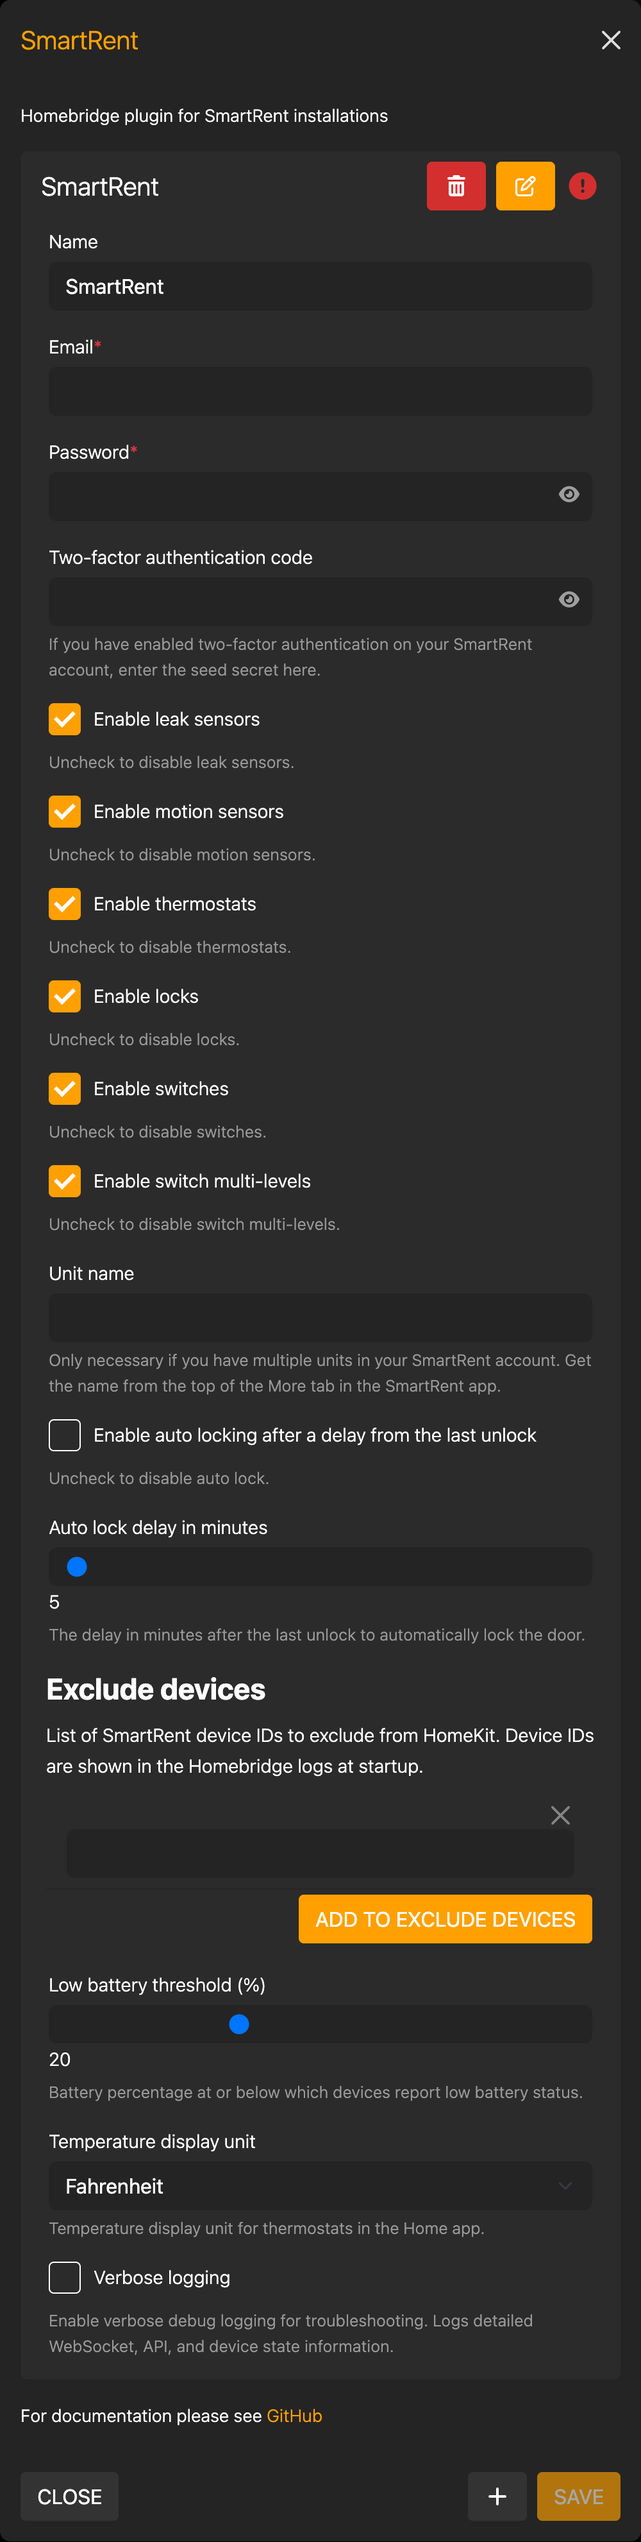
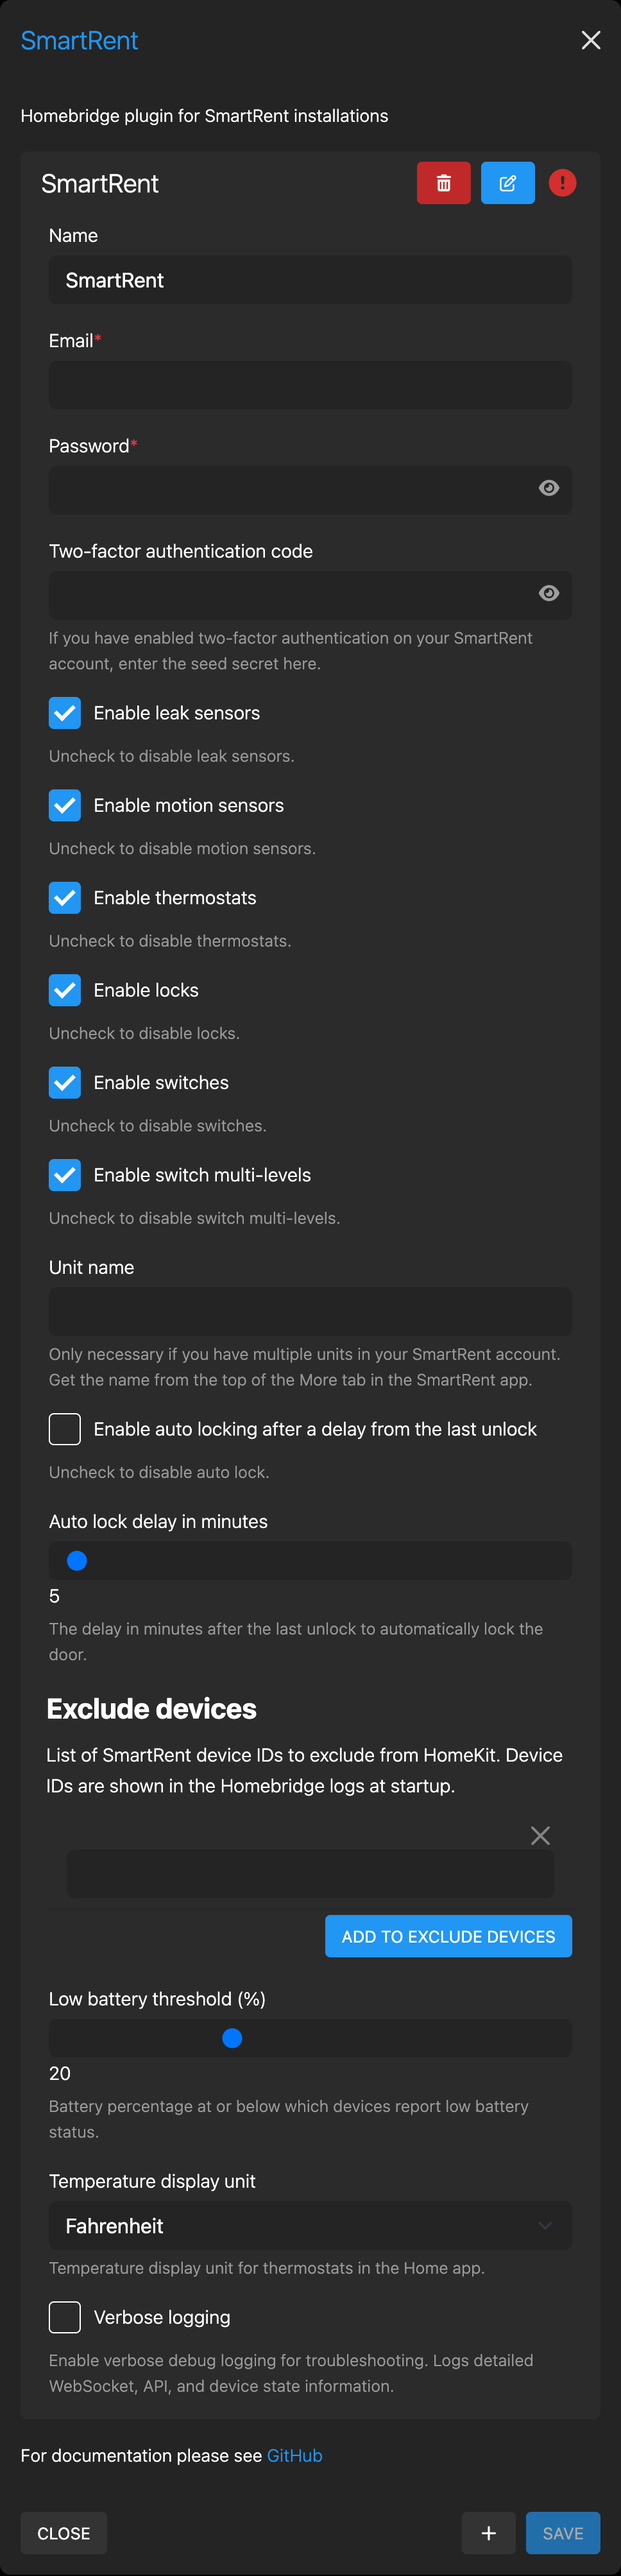
docs(readme): blue settings and dashboard screenshots
Both screenshots now use the blue Homebridge theme like the status loop, which is rebuilt without the extra blur on the interface name.

diff --git a/README.md b/README.md
@@ -26,7 +26,7 @@ The most comprehensive [SmartRent](https://smartrent.com) Homebridge integration
 
 <br><br>
 <p align="center">
-  <img src="https://raw.githubusercontent.com/BitWise-0x/homebridge-smartrent/main/homebridge-ui/public/homebridge-status.webp?v=3" width="900" alt="Homebridge status page with the HomeKit pairing code and SmartRent log lines streaming" />
+  <img src="https://raw.githubusercontent.com/BitWise-0x/homebridge-smartrent/main/homebridge-ui/public/homebridge-status.webp?v=4" width="900" alt="Homebridge status page with the HomeKit pairing code and SmartRent log lines streaming" />
 </p>
 
 <br>
@@ -48,7 +48,7 @@ The most comprehensive [SmartRent](https://smartrent.com) Homebridge integration
 
 All devices report online/offline status via the StatusActive characteristic.
 
-![Homebridge dashboard](homebridge-ui/public/screenshot2.png)
+![Homebridge dashboard](homebridge-ui/public/screenshot2.png?v=2)
 
 <br>
 
@@ -107,7 +107,7 @@ graph TD
 3. Log in to SmartRent through the settings panel, and optionally set your unit name.
 
 <p align="center">
-  <img src="https://raw.githubusercontent.com/BitWise-0x/homebridge-smartrent/main/homebridge-ui/public/screenshot1.png?v=2" width="400" alt="Plugin settings screenshot" />
+  <img src="https://raw.githubusercontent.com/BitWise-0x/homebridge-smartrent/main/homebridge-ui/public/screenshot1.png?v=3" width="400" alt="Plugin settings screenshot" />
 </p>
 
 ### Manual
